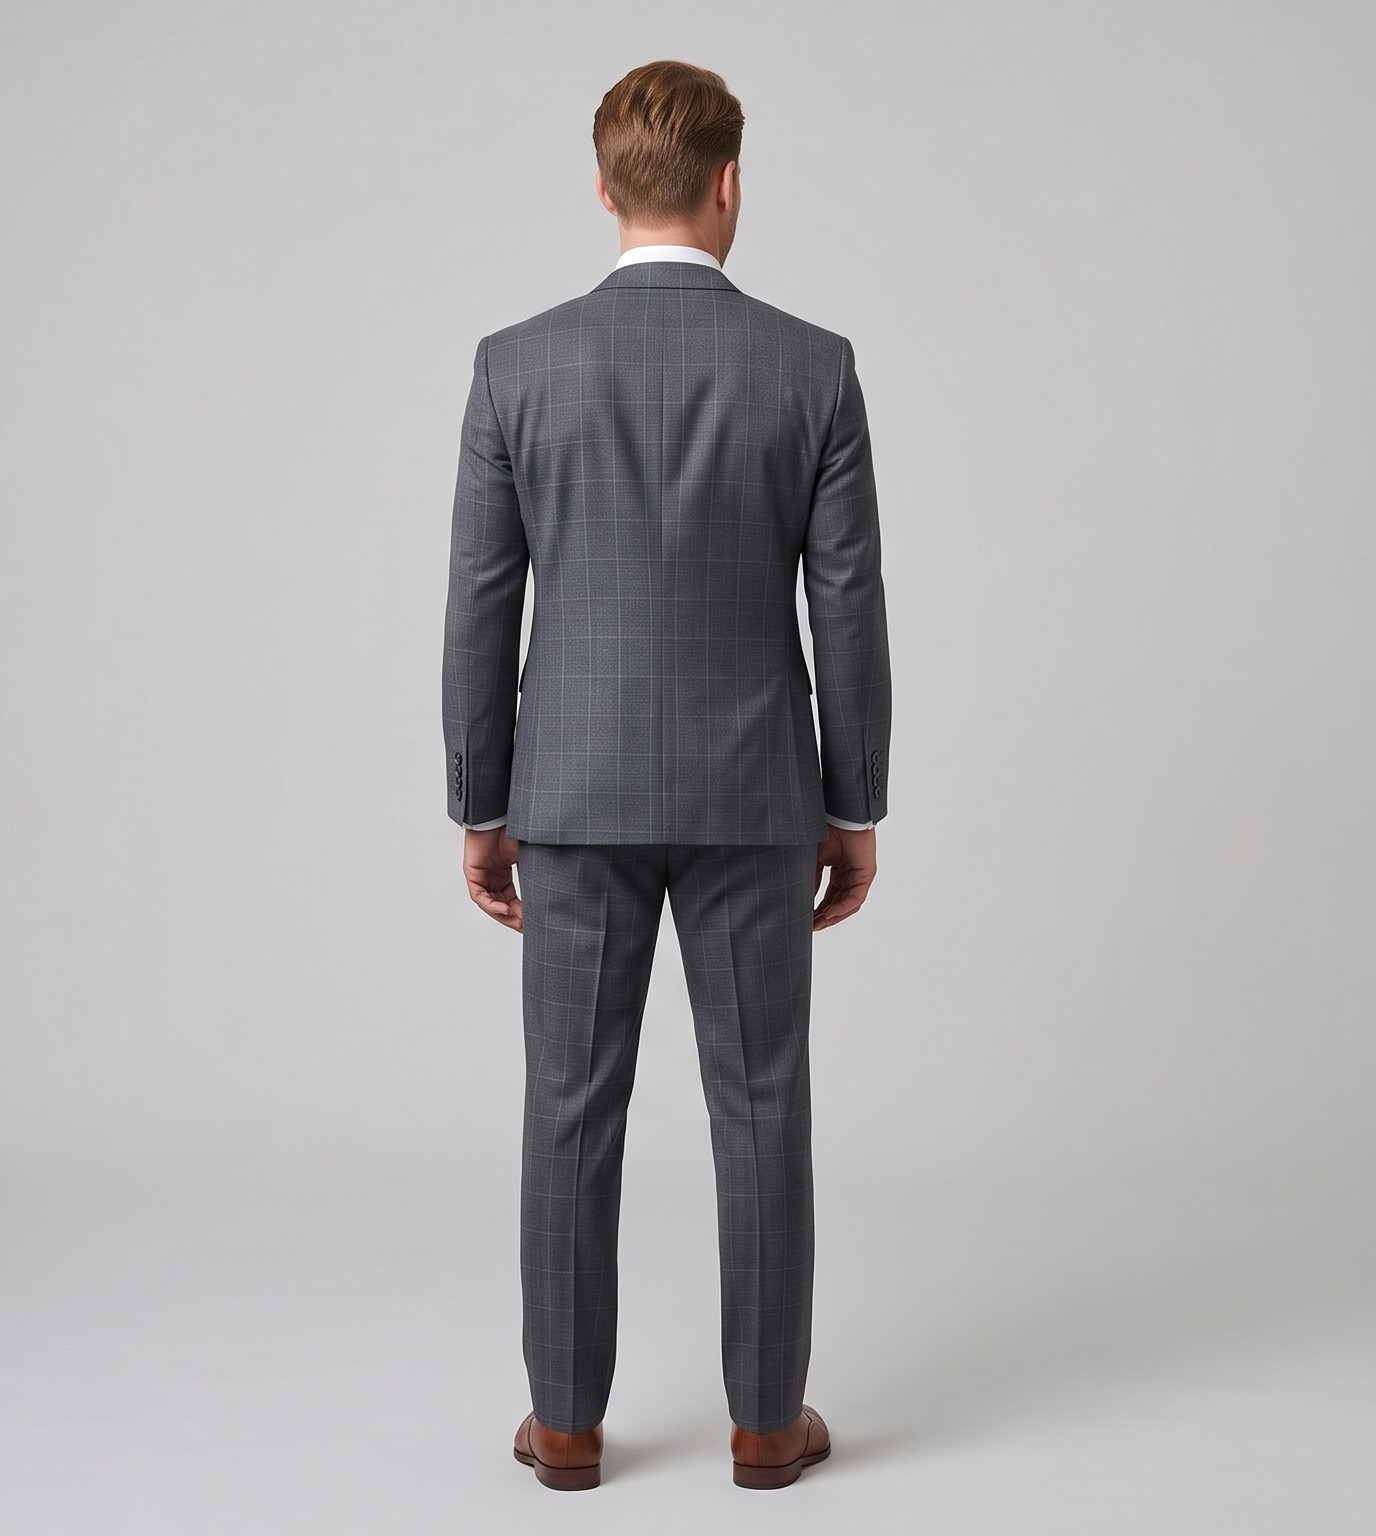
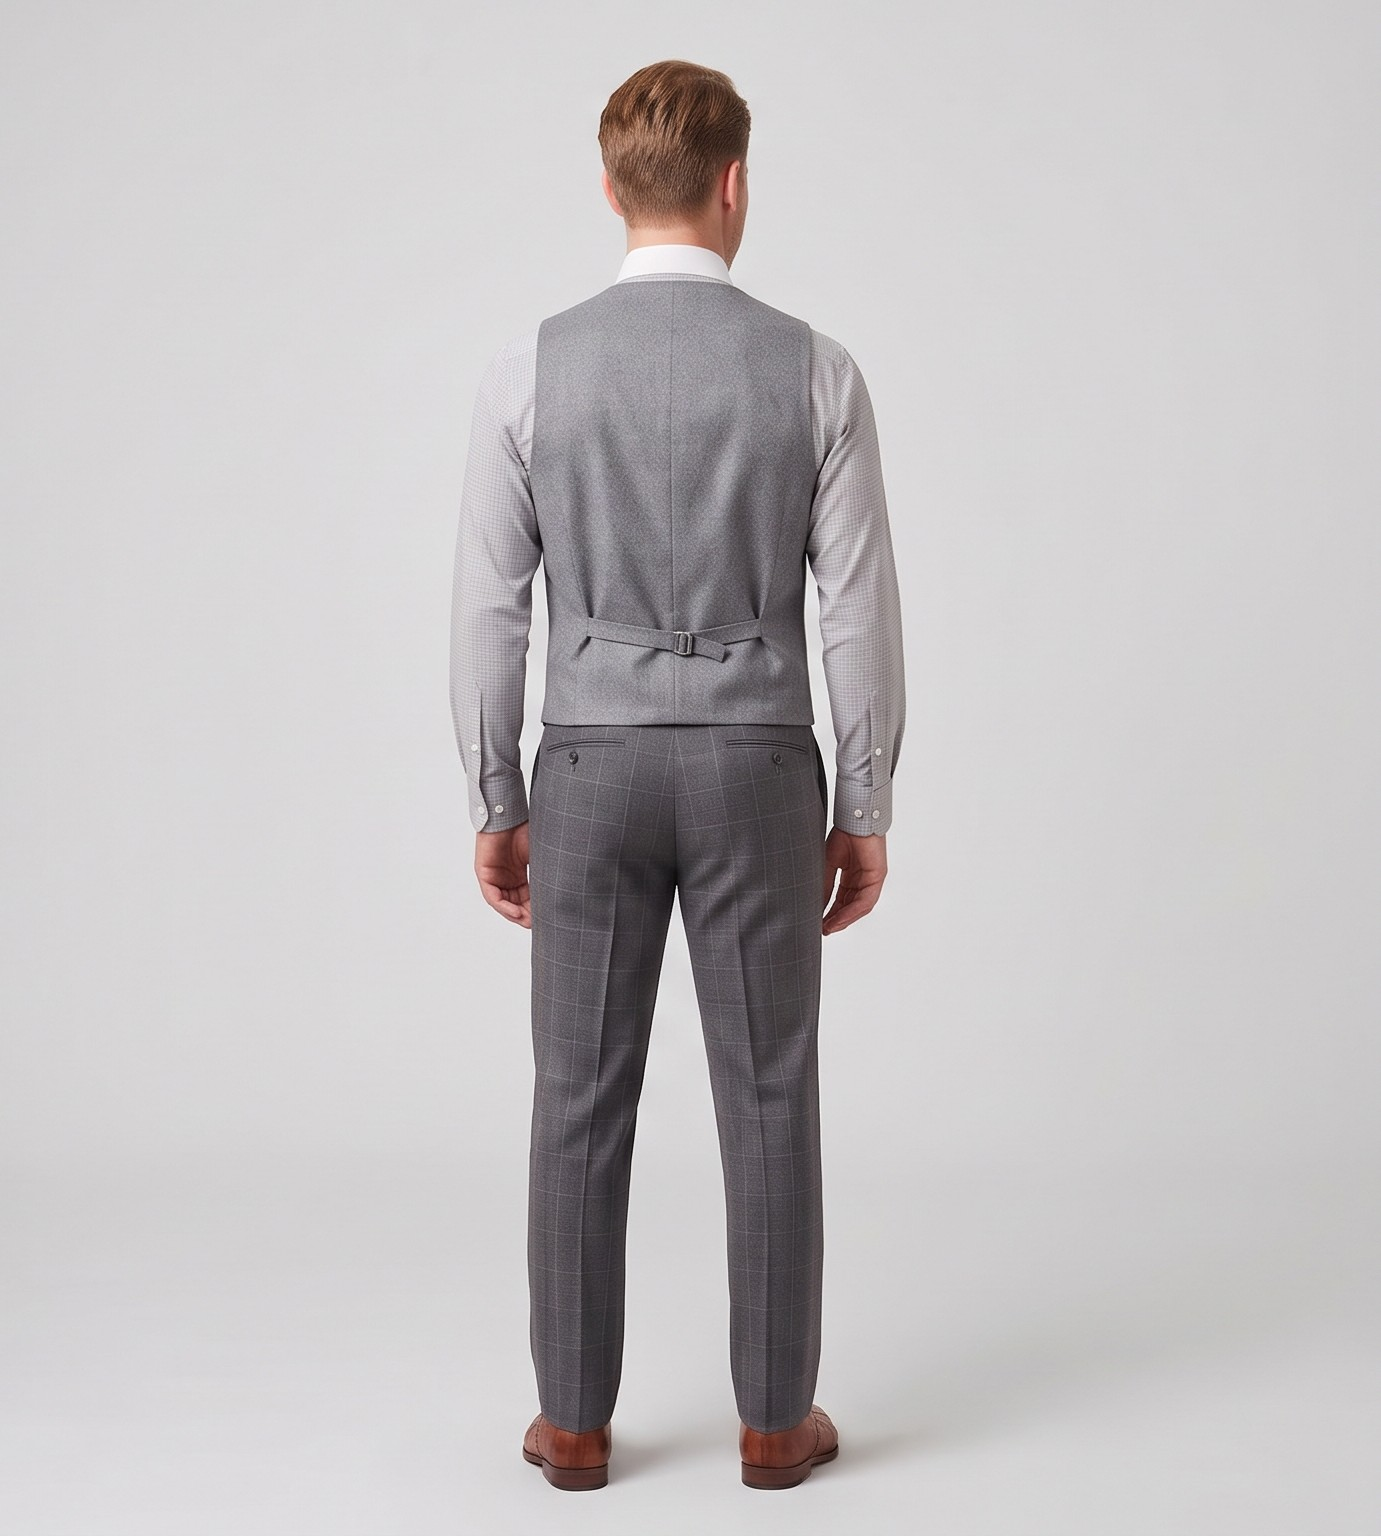
Amit is in a waistcoat now, and the five listings stop quoting one price
The p5 photographs were replaced: no jacket, a waistcoat over a shirt, and a
different frame size. Nothing about the old mask survived that. The sleeves
are now SHIRT sleeves - a different garment from the one being sold, and pale
where the waistcoat is mid-grey - so they are struck out, along with the
waistcoat hem, because a waistcoat ends where the trousers begin and a mark
laid across that line spans two garments. The upside is that a waistcoat back
is one flat unbroken panel, the best surface either man has.

The money is no longer a flat figure per sponsor. That gave three of the five
the identical round total, because three of them carry the same ten brands,
and five listings quoting matching tidy numbers read as a spreadsheet rather
than as five different days. It is priced the way the product says it prices -
by area - so each mark now carries its height as well as its width, each
wearer asks their own rate for a point of cover and their own premium on the
front, and the total falls out of the arithmetic:

  Maya & Tal  30,599     Roi     23,538     Amit    18,059
  Noa         27,835     Dana    22,358

All five clear the 15,000 target, by between a fifth and double.

Changed region(s): [[0.3125, 0.0312, 0.6562, 0.9688]]

diff --git a/public/assets/js/app.js b/public/assets/js/app.js
@@ -1223,114 +1223,119 @@ const PHOTO = {
   "p2-front": [1396, 1536], "p2-back": [1396, 1536],
   "p3-front": [1396, 1536], "p3-back": [1396, 1536],
   "p4-front": [1266, 1536], "p4-back": [1381, 1536],
-  "p5-front": [1357, 1536], "p5-back": [1376, 1536],
+  "p5-front": [1381, 1536], "p5-back": [1381, 1536],
 };
 
 const SHOWCASE = {
   male: [
     {
       person: "p4", name: "Roi Avital", where: "Jerusalem", garment: "suit",
+      rate: 2870, frontX: 1.55,
       /* Near-black navy, so every mark on it has light ink. The jacket hangs
          open, which rules out the centre line - tie down to y30, then
          waistcoat - and the trousers separate below y59. */
       marks: [
-        { side: "front", x: 46.9, y: 32.4, w: 12, logo: "mcdonalds.png", brand: "McDonald's" },
-        { side: "front", x: 55, y: 42.6, w: 9.5, logo: "pepsi.png", brand: "Pepsi" },
-        { side: "front", x: 46.9, y: 44.1, w: 6.5, logo: "spotify.png", brand: "Spotify" },
-        { side: "front", x: 55, y: 52.3, w: 9, logo: "osem.png", brand: "Osem" },
-        { side: "front", x: 46, y: 59.4, w: 6, logo: "sano.png", brand: "Sano" },
-        { side: "front", x: 46, y: 67.6, w: 5, logo: "strauss.png", brand: "Strauss" },
+        { side: "front", x: 46.9, y: 32.4, w: 12, h: 8.7, logo: "mcdonalds.png", brand: "McDonald's" },
+        { side: "front", x: 55, y: 42.6, w: 9.5, h: 7.8, logo: "pepsi.png", brand: "Pepsi" },
+        { side: "front", x: 46.9, y: 44.1, w: 6.5, h: 5.3, logo: "spotify.png", brand: "Spotify" },
+        { side: "front", x: 55, y: 52.3, w: 9, h: 3.5, logo: "osem.png", brand: "Osem" },
+        { side: "front", x: 46, y: 59.4, w: 6, h: 5, logo: "sano.png", brand: "Sano" },
+        { side: "front", x: 46, y: 67.6, w: 5, h: 2.8, logo: "strauss.png", brand: "Strauss" },
 
-        { side: "back", x: 41.1, y: 21.4, w: 12, logo: "sano.png", brand: "Sano" },
-        { side: "back", x: 45.1, y: 33.7, w: 11, logo: "strauss.png", brand: "Strauss" },
-        { side: "back", x: 41.1, y: 41.9, w: 10, logo: "redbull.png", brand: "Red Bull" },
-        { side: "back", x: 47.1, y: 48.8, w: 9, logo: "mcdonalds.png", brand: "McDonald's" },
-        { side: "back", x: 39.5, y: 59.7, w: 5.5, logo: "pepsi.png", brand: "Pepsi" },
-        { side: "back", x: 52.2, y: 62.4, w: 5, logo: "spotify.png", brand: "Spotify" },
+        { side: "back", x: 41.1, y: 21.4, w: 12, h: 10.9, logo: "sano.png", brand: "Sano" },
+        { side: "back", x: 45.1, y: 33.7, w: 11, h: 6.8, logo: "strauss.png", brand: "Strauss" },
+        { side: "back", x: 41.1, y: 41.9, w: 10, h: 5.5, logo: "redbull.png", brand: "Red Bull" },
+        { side: "back", x: 47.1, y: 48.8, w: 9, h: 7, logo: "mcdonalds.png", brand: "McDonald's" },
+        { side: "back", x: 39.5, y: 59.7, w: 5.5, h: 4.9, logo: "pepsi.png", brand: "Pepsi" },
+        { side: "back", x: 52.2, y: 62.4, w: 5, h: 4.5, logo: "spotify.png", brand: "Spotify" },
       ],
     },
     {
       person: "p5", name: "Amit Barak", where: "Ramat Gan", garment: "suit",
+      rate: 3180, frontX: 1.7,
       /* Mid-grey, the only cloth in the set that takes a light mark and a dark
          one equally well, so this is the garment that carries all twelve. */
       marks: [
-        { side: "front", x: 43.8, y: 32.4, w: 13.2, logo: "prada.png", brand: "Prada" },
-        { side: "front", x: 49, y: 38.3, w: 11, logo: "max.png", brand: "Max" },
-        { side: "front", x: 43.8, y: 42.8, w: 10, logo: "spotify.png", brand: "Spotify" },
-        { side: "front", x: 53.1, y: 53.3, w: 6.5, logo: "chanel.png", brand: "Chanel" },
-        { side: "front", x: 42.8, y: 59.7, w: 5, logo: "pepsi.png", brand: "Pepsi" },
-        { side: "front", x: 43.8, y: 53.3, w: 5.5, logo: "mcdonalds.png", brand: "McDonald's" },
+        { side: "front", x: 42.6, y: 32.4, w: 13, h: 1.8, logo: "prada.png", brand: "Prada" },
+        { side: "front", x: 46.1, y: 38.3, w: 11, h: 3.1, logo: "max.png", brand: "Max" },
+        { side: "front", x: 42.1, y: 56.5, w: 6, h: 5.4, logo: "spotify.png", brand: "Spotify" },
+        { side: "front", x: 52.7, y: 54.7, w: 6, h: 3.6, logo: "chanel.png", brand: "Chanel" },
+        { side: "front", x: 54.2, y: 60.6, w: 5, h: 4.5, logo: "pepsi.png", brand: "Pepsi" },
+        { side: "front", x: 42.1, y: 63.3, w: 5, h: 3.9, logo: "mcdonalds.png", brand: "McDonald's" },
 
-        { side: "back", x: 40.7, y: 21.9, w: 12, logo: "redbull.png", brand: "Red Bull" },
-        { side: "back", x: 45.3, y: 29.6, w: 11, logo: "sano.png", brand: "Sano" },
-        { side: "back", x: 40.7, y: 41, w: 10, logo: "zara.png", brand: "Zara" },
-        { side: "back", x: 47.3, y: 46, w: 9, logo: "spotify.png", brand: "Spotify" },
-        { side: "back", x: 39.7, y: 59.7, w: 6, logo: "chanel.png", brand: "Chanel" },
-        { side: "back", x: 52.4, y: 64.3, w: 5, logo: "pepsi.png", brand: "Pepsi" },
+        { side: "back", x: 41.1, y: 22.3, w: 12, h: 6.5, logo: "redbull.png", brand: "Red Bull" },
+        { side: "back", x: 45.1, y: 30.1, w: 11, h: 10, logo: "sano.png", brand: "Sano" },
+        { side: "back", x: 40, y: 53.8, w: 10, h: 3.8, logo: "zara.png", brand: "Zara" },
+        { side: "back", x: 51.7, y: 51.5, w: 6, h: 5.4, logo: "spotify.png", brand: "Spotify" },
+        { side: "back", x: 40, y: 58.8, w: 6, h: 3.6, logo: "chanel.png", brand: "Chanel" },
+        { side: "back", x: 52.2, y: 60.6, w: 5.5, h: 4.9, logo: "pepsi.png", brand: "Pepsi" },
       ],
     },
   ],
   female: [
     {
       person: "p1", name: "Maya & Tal", where: "Tel Aviv", garment: "gown",
+      rate: 3060, frontX: 1.6,
       /* The V neckline bottoms out at y31 and the sleeves are sheer, so nothing
          starts above the beaded panel; her hands are clasped across the centre
          of the skirt; and on the back everything above y38 is illusion tulle
          over bare skin. This is the pair whose outline is measured by hand. */
       marks: [
-        { side: "front", x: 43.8, y: 38, w: 12.5, logo: "prada.png", brand: "Prada" },
-        { side: "front", x: 34.4, y: 75.2, w: 13.5, logo: "chanel.png", brand: "Chanel" },
-        { side: "front", x: 44.8, y: 58.8, w: 12.5, logo: "pepsi.png", brand: "Pepsi" },
-        { side: "front", x: 50.8, y: 78.8, w: 12, logo: "zara.png", brand: "Zara" },
-        { side: "front", x: 36.4, y: 67, w: 7, logo: "spotify.png", brand: "Spotify" },
-        { side: "front", x: 49.3, y: 71.5, w: 10, logo: "redbull.png", brand: "Red Bull" },
+        { side: "front", x: 43.8, y: 38, w: 12.5, h: 1.8, logo: "prada.png", brand: "Prada" },
+        { side: "front", x: 34.4, y: 75.2, w: 13.5, h: 8.3, logo: "chanel.png", brand: "Chanel" },
+        { side: "front", x: 44.8, y: 58.8, w: 12.5, h: 11.5, logo: "pepsi.png", brand: "Pepsi" },
+        { side: "front", x: 50.8, y: 78.8, w: 12, h: 4.6, logo: "zara.png", brand: "Zara" },
+        { side: "front", x: 36.4, y: 67, w: 7, h: 6.4, logo: "spotify.png", brand: "Spotify" },
+        { side: "front", x: 49.3, y: 71.5, w: 10, h: 5.5, logo: "redbull.png", brand: "Red Bull" },
 
-        { side: "back", x: 42.5, y: 53.8, w: 13.5, logo: "prada.png", brand: "Prada" },
-        { side: "back", x: 45.5, y: 47.4, w: 8.5, logo: "redbull.png", brand: "Red Bull" },
-        { side: "back", x: 40.6, y: 58.8, w: 12, logo: "castro.png", brand: "Castro" },
-        { side: "back", x: 52.4, y: 71.1, w: 11, logo: "sano.png", brand: "Sano" },
-        { side: "back", x: 34.6, y: 71.1, w: 10, logo: "max.png", brand: "Max" },
-        { side: "back", x: 41.6, y: 75.7, w: 9.5, logo: "strauss.png", brand: "Strauss" },
+        { side: "back", x: 42.5, y: 53.8, w: 13.5, h: 2, logo: "prada.png", brand: "Prada" },
+        { side: "back", x: 45.5, y: 47.4, w: 8.5, h: 4.8, logo: "redbull.png", brand: "Red Bull" },
+        { side: "back", x: 40.6, y: 58.8, w: 12, h: 3.3, logo: "castro.png", brand: "Castro" },
+        { side: "back", x: 52.4, y: 71.1, w: 11, h: 10.3, logo: "sano.png", brand: "Sano" },
+        { side: "back", x: 34.6, y: 71.1, w: 10, h: 2.9, logo: "max.png", brand: "Max" },
+        { side: "back", x: 41.6, y: 75.7, w: 9.5, h: 6, logo: "strauss.png", brand: "Strauss" },
       ],
     },
     {
       person: "p2", name: "Dana Halevi", where: "Caesarea", garment: "gown",
+      rate: 2745, frontX: 1.45,
       /* The whole back above the y36 waist seam is illusion lace over skin, so
          that side is skirt only. */
       marks: [
-        { side: "front", x: 45.3, y: 30.1, w: 9.5, logo: "zara.png", brand: "Zara" },
-        { side: "front", x: 37.6, y: 63.3, w: 13.5, logo: "prada.png", brand: "Prada" },
-        { side: "front", x: 45.1, y: 35.1, w: 9.5, logo: "spotify.png", brand: "Spotify" },
-        { side: "front", x: 45.1, y: 46.9, w: 9.5, logo: "redbull.png", brand: "Red Bull" },
-        { side: "front", x: 44.6, y: 59.7, w: 8.5, logo: "castro.png", brand: "Castro" },
-        { side: "front", x: 34.1, y: 73.8, w: 9.5, logo: "sano.png", brand: "Sano" },
+        { side: "front", x: 45.3, y: 30.1, w: 9.5, h: 3.6, logo: "zara.png", brand: "Zara" },
+        { side: "front", x: 37.6, y: 63.3, w: 13.5, h: 2, logo: "prada.png", brand: "Prada" },
+        { side: "front", x: 45.1, y: 35.1, w: 9.5, h: 8.7, logo: "spotify.png", brand: "Spotify" },
+        { side: "front", x: 45.1, y: 46.9, w: 9.5, h: 5.3, logo: "redbull.png", brand: "Red Bull" },
+        { side: "front", x: 44.6, y: 59.7, w: 8.5, h: 2.3, logo: "castro.png", brand: "Castro" },
+        { side: "front", x: 34.1, y: 73.8, w: 9.5, h: 8.8, logo: "sano.png", brand: "Sano" },
 
-        { side: "back", x: 44.6, y: 40.6, w: 10.5, logo: "castro.png", brand: "Castro" },
-        { side: "back", x: 44.6, y: 45.1, w: 10.5, logo: "sano.png", brand: "Sano" },
-        { side: "back", x: 44.6, y: 56.5, w: 10.5, logo: "max.png", brand: "Max" },
-        { side: "back", x: 52.1, y: 62.9, w: 11, logo: "strauss.png", brand: "Strauss" },
-        { side: "back", x: 33.1, y: 69.7, w: 10, logo: "chanel.png", brand: "Chanel" },
-        { side: "back", x: 56.7, y: 72, w: 9.5, logo: "pepsi.png", brand: "Pepsi" },
+        { side: "back", x: 44.6, y: 40.6, w: 10.5, h: 2.9, logo: "castro.png", brand: "Castro" },
+        { side: "back", x: 44.6, y: 45.1, w: 10.5, h: 9.7, logo: "sano.png", brand: "Sano" },
+        { side: "back", x: 44.6, y: 56.5, w: 10.5, h: 3, logo: "max.png", brand: "Max" },
+        { side: "back", x: 52.1, y: 62.9, w: 11, h: 6.9, logo: "strauss.png", brand: "Strauss" },
+        { side: "back", x: 33.1, y: 69.7, w: 10, h: 6.1, logo: "chanel.png", brand: "Chanel" },
+        { side: "back", x: 56.7, y: 72, w: 9.5, h: 8.7, logo: "pepsi.png", brand: "Pepsi" },
       ],
     },
     {
       person: "p3", name: "Noa Lev", where: "Haifa", garment: "gown",
+      rate: 2960, frontX: 1.5,
       /* Plain matte satin between y24 and y36 on the front - the best surface in
          the set. The back scoops to bare skin down to y29. */
       marks: [
-        { side: "front", x: 45.7, y: 27.6, w: 9.5, logo: "chanel.png", brand: "Chanel" },
-        { side: "front", x: 45.6, y: 35.1, w: 9.5, logo: "redbull.png", brand: "Red Bull" },
-        { side: "front", x: 43.1, y: 41.9, w: 11, logo: "castro.png", brand: "Castro" },
-        { side: "front", x: 38.6, y: 52.4, w: 12, logo: "sano.png", brand: "Sano" },
-        { side: "front", x: 52.1, y: 63.3, w: 11, logo: "max.png", brand: "Max" },
-        { side: "front", x: 29.6, y: 82, w: 10, logo: "strauss.png", brand: "Strauss" },
+        { side: "front", x: 45.7, y: 27.6, w: 9.5, h: 5.8, logo: "chanel.png", brand: "Chanel" },
+        { side: "front", x: 45.6, y: 35.1, w: 9.5, h: 5.3, logo: "redbull.png", brand: "Red Bull" },
+        { side: "front", x: 43.1, y: 41.9, w: 11, h: 3, logo: "castro.png", brand: "Castro" },
+        { side: "front", x: 38.6, y: 52.4, w: 12, h: 11.1, logo: "sano.png", brand: "Sano" },
+        { side: "front", x: 52.1, y: 63.3, w: 11, h: 3.1, logo: "max.png", brand: "Max" },
+        { side: "front", x: 29.6, y: 82, w: 10, h: 6.3, logo: "strauss.png", brand: "Strauss" },
 
-        { side: "back", x: 37.6, y: 53.8, w: 13.5, logo: "prada.png", brand: "Prada" },
-        { side: "back", x: 54.2, y: 72, w: 12.5, logo: "pepsi.png", brand: "Pepsi" },
-        { side: "back", x: 52.7, y: 53.8, w: 8.5, logo: "zara.png", brand: "Zara" },
-        { side: "back", x: 51.6, y: 58.8, w: 11, logo: "spotify.png", brand: "Spotify" },
-        { side: "back", x: 32.1, y: 69.7, w: 10, logo: "redbull.png", brand: "Red Bull" },
-        { side: "back", x: 43.1, y: 76.6, w: 9.5, logo: "castro.png", brand: "Castro" },
+        { side: "back", x: 37.6, y: 53.8, w: 13.5, h: 2, logo: "prada.png", brand: "Prada" },
+        { side: "back", x: 54.2, y: 72, w: 12.5, h: 11.4, logo: "pepsi.png", brand: "Pepsi" },
+        { side: "back", x: 52.7, y: 53.8, w: 8.5, h: 3.3, logo: "zara.png", brand: "Zara" },
+        { side: "back", x: 51.6, y: 58.8, w: 11, h: 10, logo: "spotify.png", brand: "Spotify" },
+        { side: "back", x: 32.1, y: 69.7, w: 10, h: 5.5, logo: "redbull.png", brand: "Red Bull" },
+        { side: "back", x: 43.1, y: 76.6, w: 9.5, h: 2.6, logo: "castro.png", brand: "Castro" },
       ],
     },
   ],
@@ -1355,11 +1360,21 @@ const SHOWCASE = {
    Aviv, not rows in the database - the footer says as much.
    ========================================================================= */
 const SHOW_TARGET = 15000;
-const SHOW_PER_BRAND = 1450;
 
 const showBrands = entry => new Set(entry.marks.map(m => m.brand)).size;
-const showRaised = entry =>
-  Math.round((SHOW_TARGET + SHOW_PER_BRAND * showBrands(entry)) / 50) * 50;
+
+/* Priced the way the product says it prices: by area. Each mark covers
+   w × h of the frame, the wearer sets a rate for a point of cover and how
+   much more the front is worth, and the total is what the garment took.
+
+   Not a flat figure per sponsor. That gave three of the five the identical
+   number, because three of them carry the same ten brands, and five listings
+   with matching round totals read as a spreadsheet rather than as five
+   different days. These come out of the photographs - the widest gown carries
+   nearly twice the cover of the waistcoat - so they differ, and they land
+   wherever the arithmetic lands. */
+const showRaised = entry => Math.round(entry.rate * entry.marks.reduce(
+  (sum, m) => sum + (m.w * m.h / 100) * (m.side === "front" ? entry.frontX : 1), 0));
 
 /* The fullest bar in the set, so the five are drawn to one scale and can be
    compared to each other at a glance. */

diff --git a/scripts/place-marks.js b/scripts/place-marks.js
@@ -143,12 +143,20 @@ const LAYOUT = {
 const GAP = 1.4;             /* percent of frame width kept clear between marks */
 const MIN_HEIGHT = 1.7;      /* percent of frame height, under which a mark is a smudge */
 
+/* rate   - shekels for one point of cover, which is the wearer's own asking
+            price in the product's own terms
+   frontX - how much more the front is worth than the back
+
+   No two of these are the same and none of them is round. Five listings
+   quoting identical tidy totals read as a spreadsheet; five people each asking
+   their own price read as five people. The totals fall out of these and the
+   area actually covered, so they are not chosen either. */
 const WEARER = {
-  p4: { name: "Roi Avital", where: "Jerusalem", garment: "suit" },
-  p5: { name: "Amit Barak", where: "Ramat Gan", garment: "suit" },
-  p1: { name: "Maya & Tal", where: "Tel Aviv", garment: "gown" },
-  p2: { name: "Dana Halevi", where: "Caesarea", garment: "gown" },
-  p3: { name: "Noa Lev", where: "Haifa", garment: "gown" },
+  p4: { name: "Roi Avital", where: "Jerusalem", garment: "suit", rate: 2870, frontX: 1.55 },
+  p5: { name: "Amit Barak", where: "Ramat Gan", garment: "suit", rate: 3180, frontX: 1.7 },
+  p1: { name: "Maya & Tal", where: "Tel Aviv", garment: "gown", rate: 3060, frontX: 1.6 },
+  p2: { name: "Dana Halevi", where: "Caesarea", garment: "gown", rate: 2745, frontX: 1.45 },
+  p3: { name: "Noa Lev", where: "Haifa", garment: "gown", rate: 2960, frontX: 1.5 },
 };
 
 const PACK = String.raw`
@@ -397,12 +405,17 @@ window.markPreview = function (who, marks) {
     await server.stop();
   }
 
+  /* `h` is carried even though the layout does not need it - the browser gets
+     the height from the artwork's own proportions - because the PRICE does.
+     A spot is sold by area, so the showcase needs to know how much of the
+     garment each mark actually covers. */
   const row = k =>
-    `        { side: "${k.side}", x: ${k.x}, y: ${k.y}, w: ${k.w}, logo: "${k.logo}", brand: "${k.brand}" },`;
+    `        { side: "${k.side}", x: ${k.x}, y: ${k.y}, w: ${k.w}, h: ${k.h}, logo: "${k.logo}", brand: "${k.brand}" },`;
   const lines = [];
   for (const p of ["p4", "p5", "p1", "p2", "p3"]) {
     const w = WEARER[p];
     lines.push(`    { person: "${p}", name: "${w.name}", where: "${w.where}", garment: "${w.garment}",`);
+    lines.push(`      rate: ${w.rate}, frontX: ${w.frontX},`);
     lines.push("      marks: [");
     for (const side of ["front", "back"]) {
       for (const k of packed[`${p}-${side}`]) lines.push(row(Object.assign({ side }, k)));

diff --git a/test/helpers/cloth-mask.js b/test/helpers/cloth-mask.js
@@ -324,10 +324,19 @@ const PHOTOS = {
     cutouts: [[26, 20, 45, 58], [66, 20, 80, 58]] },
   "p4-back":  { mode: "flood", tol: 8, seedX: 48, seedY: 35, yTop: 20, yBot: 90, warmth: 22, margin: 1.3,
     cutouts: [[24, 18, 39, 58], [58, 18, 74, 58]] },
-  "p5-front": { mode: "flood", tol: 8, seedX: 50, seedY: 45, yTop: 31, yBot: 88, warmth: 22, margin: 1.3,
-    cutouts: [[24, 20, 42, 58], [62, 20, 78, 58]] },
-  "p5-back":  { mode: "flood", tol: 8, seedX: 48, seedY: 35, yTop: 20, yBot: 90, warmth: 22, margin: 1.3,
-    cutouts: [[24, 18, 39, 58], [58, 18, 74, 58]] },
+  /* p5 is not wearing a jacket - waistcoat, shirt and trousers - so the shapes
+     here are nothing like p4's. What is struck out is the SHIRT sleeves: they
+     are a different garment from the one being sold, they are pale where the
+     waistcoat is mid-grey, and they hang clear of the body with backdrop
+     showing between forearm and hip. The upside is that a waistcoat back is
+     one flat unbroken panel, which is the best surface either man has.
+
+     The third rectangle on each is the waistcoat hem. A waistcoat ends and the
+     trousers begin, and a mark laid across that line spans two garments. */
+  "p5-front": { mode: "flood", tol: 8, seedX: 50, seedY: 42, yTop: 31, yBot: 90, warmth: 22, margin: 1.3,
+    cutouts: [[20, 17, 41, 50], [59, 17, 80, 50], [39, 45, 61, 53]] },
+  "p5-back":  { mode: "flood", tol: 8, seedX: 48, seedY: 30, yTop: 20, yBot: 92, warmth: 22, margin: 1.3,
+    cutouts: [[20, 17, 39, 50], [58, 17, 80, 50], [35, 44, 61, 50]] },
 };
 
 module.exports = { MASK_SOURCE, PHOTOS };
